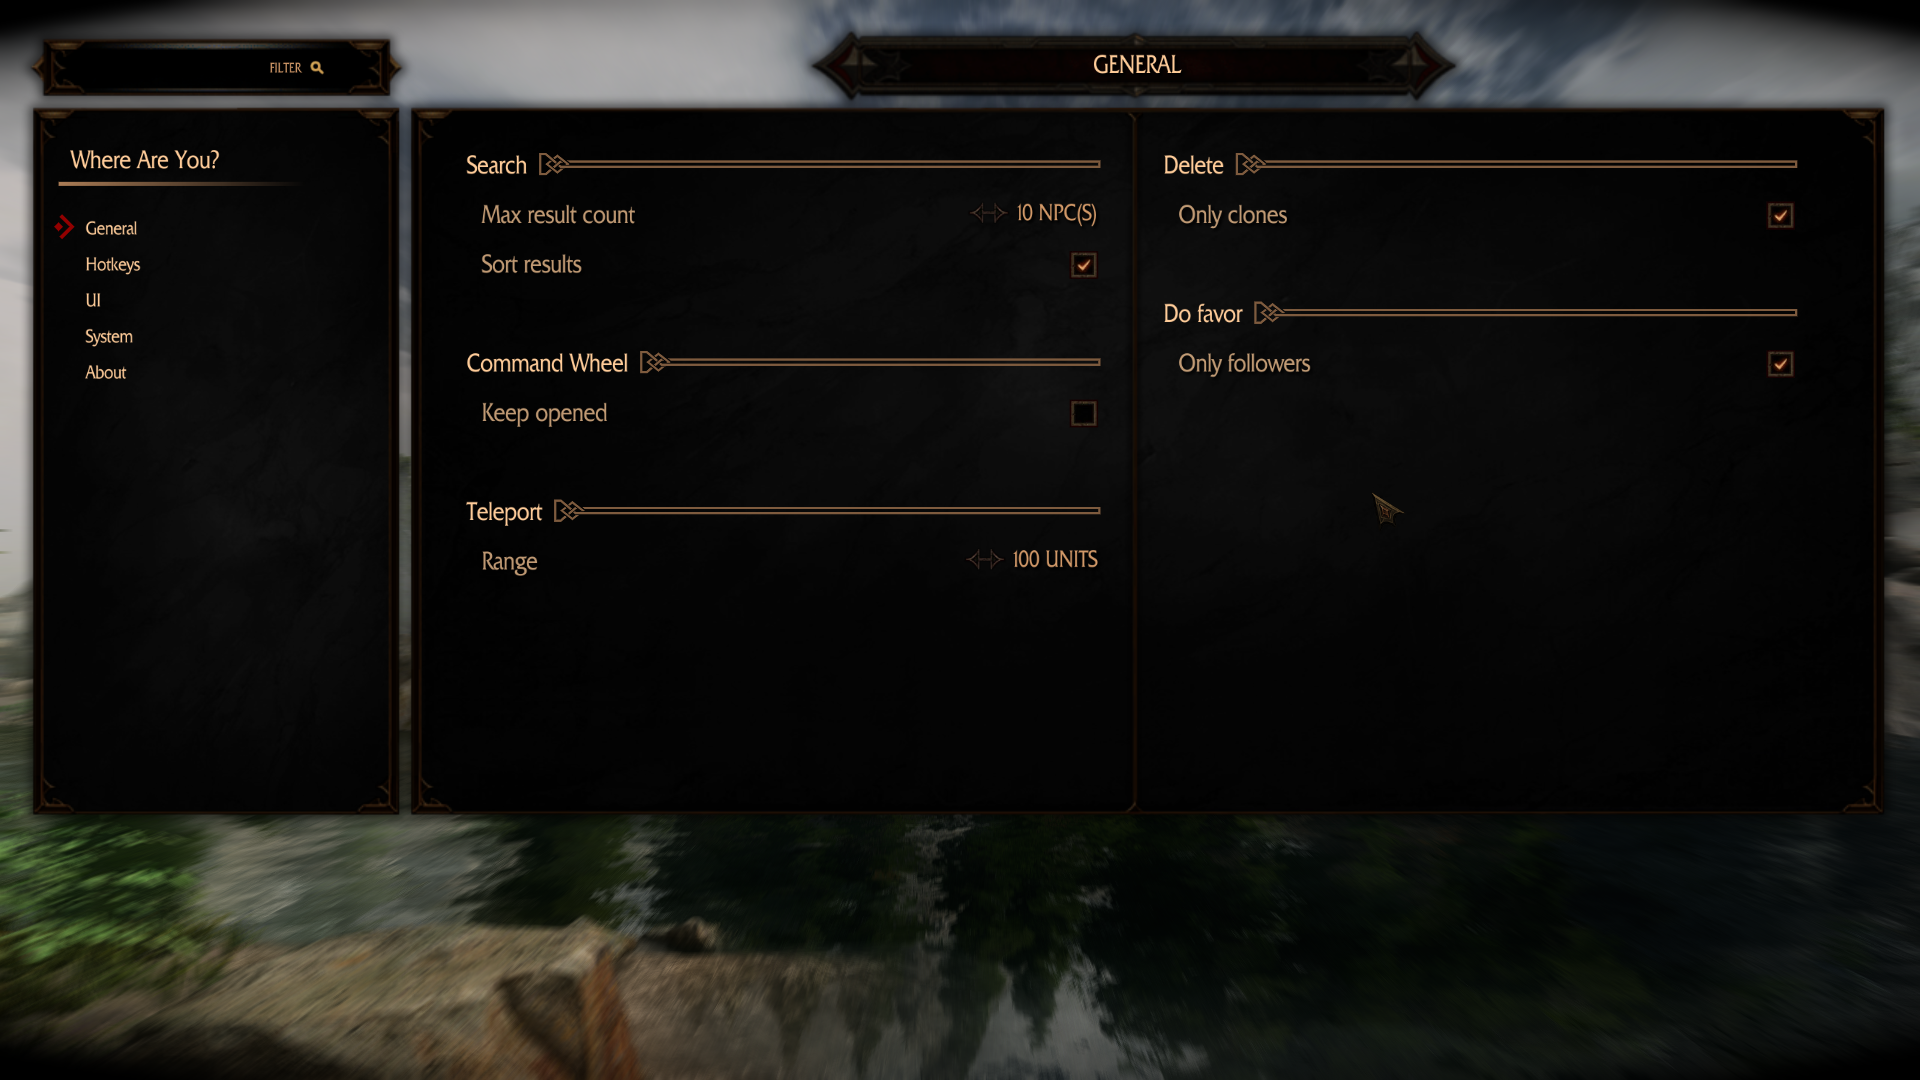
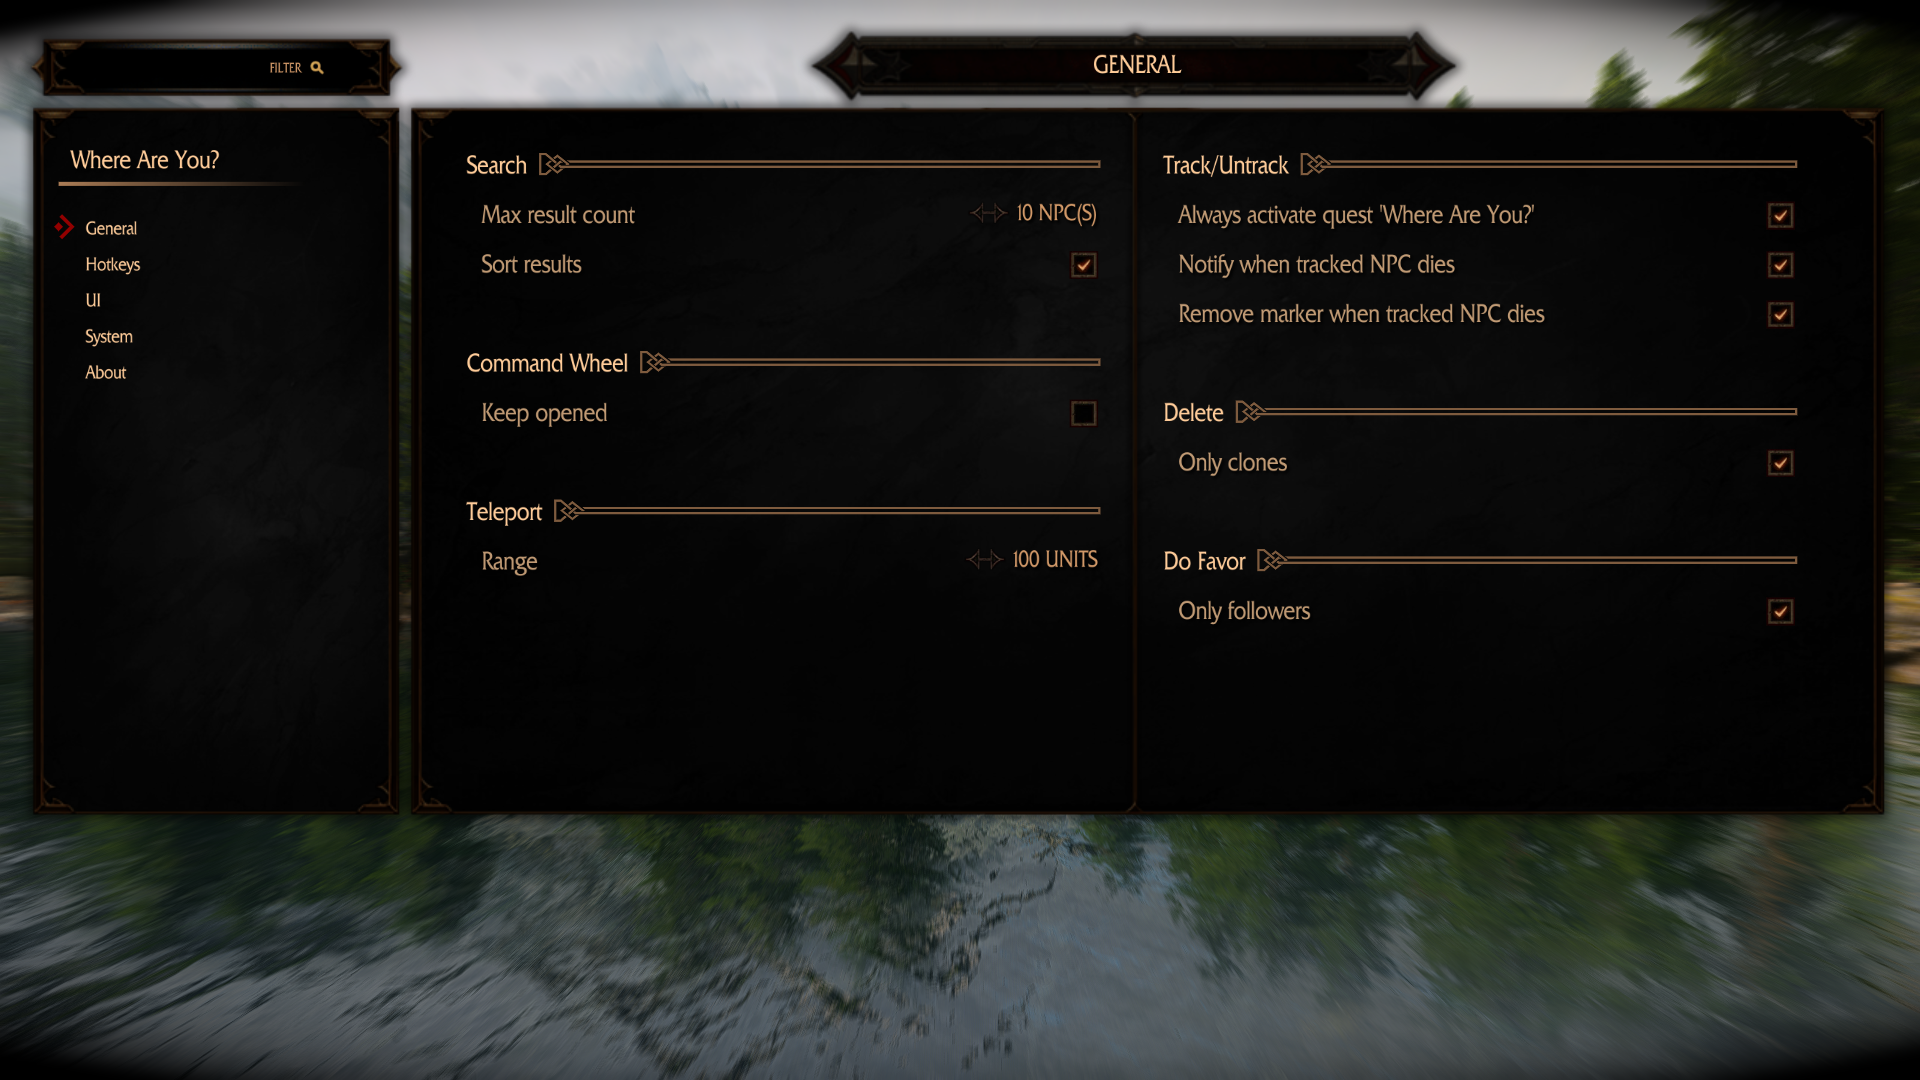
docs: update screenshots, readme and changelog

diff --git a/README.md b/README.md
@@ -13,16 +13,19 @@ Don't worry, we'll find them for you!
 ## Features
 
 - Implemented:
+  - **[NEW]** Fast search using [Lua pattern matching](https://www.lua.org/manual/5.1/manual.html#5.4.1)
+  - **[NEW]** Customized search result list format
+  - **[NEW]** More NPC info available in the older Stats command wheel option
   - Search all unique NPCs you discovered by their names
-  - **[NEW]** MCM
-  - **[NEW]** Customizable hotkey for search NPCs
-  - **[NEW]** Customizable hotkey for tracking NPC at crosshair
-  - **[NEW]** Customizable hotkey for show command wheel for NPC at crosshair
-  - **[NEW]** Customizable hotkey for make NPC at crosshair do a favor
-  - **[NEW]** Support for modifiers (Ctrl, Shift and Alt) in all hotkeys
-  - **[NEW]** Added option to only delete cloned NPCs
-  - **[NEW]** Added option to only allow followers to do favors
-  - **[NEW]** Customizable UI (icons and color)
+  - MCM
+  - Customizable hotkey for search NPCs
+  - Customizable hotkey for tracking NPC at crosshair
+  - Customizable hotkey for show command wheel for NPC at crosshair
+  - Customizable hotkey for make NPC at crosshair do a favor
+  - Support for modifiers (Ctrl, Shift and Alt) in all hotkeys
+  - Added option to only delete cloned NPCs
+  - Added option to only allow followers to do favors
+  - Customizable UI (icons and color)
   - Search supporting wildcards * and ?
   - Tracking markers up to 100 NPCs
   - Teleport the NPC to you
@@ -39,8 +42,6 @@ Don't worry, we'll find them for you!
   - A SKSE version to improve search performance or a [Skyrim Search SE](https://www.nexusmods.com/skyrimspecialedition/mods/45689) integration.
   - Find NPCs still not discovered/spawned in game.
   - Add support to track pets
-  - Show more NPC info (like FormID, EditorID, what mod is from, etc.).
-  - Translations (official support for English and pt-BR)
   - Profiles
   - Extend the search functionality with some patterns, similar to the SPID format.
   - Add dialog option in quests to help find the target NPC (where it lives, works, sleeps, etc). Optionally also add a quest marker to help track it. Thanks [dann1](https://www.nexusmods.com/Users/25568544) for the suggestion!
@@ -85,14 +86,13 @@ No incompatibilities found yet.
 
 - Can I uninstall it mid playthrough?
 - It's not recomended, but you can. If you wish to proceed what I would do:
-  - 1) Reset stored data (MCM > Where Are You? > System > Reset data).
-  - 2) Disable the mod (MCM > Where Are You? > System > Mod enabled)
-  - 3) Disable "Keep tracking in the background" too (to avoid store data in background)
-  - 4) Make a new save
-  - 5) Disable the kxWhereAreYou.esp
-  - 6) Make a new save
-  - 7) Clean the new save on [Resaver](https://www.nexusmods.com/skyrimspecialedition/mods/5031)
-  - 8) Load the cleaned save
+  - 1) Disable the mod (MCM > Where Are You? > System > Mod enabled)
+  - 2) Disable "Keep tracking in the background" too (to avoid store data in background)
+  - 3) Make a new save
+  - 4) Disable the kxWhereAreYou.esp
+  - 5) Make a new save
+  - 6) Clean the new save on [Resaver](https://www.nexusmods.com/skyrimspecialedition/mods/5031)
+  - 7) Load the cleaned save
 
 ---
 
@@ -102,7 +102,7 @@ No incompatibilities found yet.
 ---
 
 - It's slow! Any plans to improve the search performance?
-- Yeah, this scripted version has its limitations. In a heavy modded and/or low-end PCs the search time can be pretty high. Try to avoid using wildcards because the searching is way slower with it. I do plan to release a SKSE version to improve the search performance.
+- Yeah, this scripted version has its limitations. I tried my best to shift the searching to Lua scripts and that helped a lot performance wise. I still plan to release a SKSE plugin to improve the search performance and also deal with some other script limitations.
 
 ---
 
@@ -112,7 +112,7 @@ No incompatibilities found yet.
 ---
 
 - I have a very specific case where my NPC is not tracked by this mod at all. Can I change any settings or do some troubleshoot on my own?
-- This mod uses SPID to distribute a lookup spell for every unique NPC actor. If this doesn't match what you need you can update the `kxWhereAreYou_DISTR.ini` file and include your own filters. You can `bEnableLogging` and `bEnableTrace` to `1` on your Skyrim.ini file and also enable "Debug mode" on MCM. The logs will appear on your Papyrus.0.log file and also on the game's console. You can also dump all data stored via the MCM (Mod's MCM > System > Export data). The output file will be generated at `Data/kxWhereAreYou/Debug/dump.json`.
+- This mod uses SPID to distribute a lookup spell for every unique NPC actor. If this doesn't match what you need you can update the `kxWhereAreYou_DISTR.ini` file and include your own filters. You can `bEnableLogging` and `bEnableTrace` to `1` on your Skyrim.ini file and also enable "Debug mode" on MCM. The logs will appear on your Papyrus.0.log file and also on the game's console. Lua logs will be stored in `Data/kxWhereAreYou/Debug/lua.log`. You can also dump all data stored via the MCM (Mod's MCM > System > Export data). The output file will be generated at `Data/kxWhereAreYou/Debug/dump.json`.
 
 ---
 
@@ -128,11 +128,6 @@ No incompatibilities found yet.
 
 - What happens if I disable the mod via "Mod enabled" toggle?
 - All the keys associated with this mod will be unregistered. The mod will still be storing NPCs on the background in case you reenable the mod again if the option "Keep tracking in the background" is enabled.
-
----
-
-- What "reset data" does?
-- It removes all data stored by this mod from memory, so when you save your game no additional data from this mod will be baked into your save file. Your configuration settings will be untouched.
 
 ---
 

diff --git a/CHANGELOG.md b/CHANGELOG.md
@@ -2,8 +2,8 @@
 
 ## 1.3.0
 
-- Faster and more powerful search using Lua. Search now uses Lua patterns instead of simple wildcards used in previous version
-- Customized result search list format. You can use predefined variables to add only the information you need like `[name]|[refid]~[mod]`
+- Faster and more powerful search using Lua. Search now uses Lua [pattern matching](https://www.lua.org/manual/5.1/manual.html#5.4.1) instead of simple wildcards like in the previous version
+- Customized search result list format. You can use predefined variables to add only the information you need like `[name]|[refid]~[mod]`
 - Added more NPC info on "Stats" option (available in command wheel), like location, race, baseid, refid, etc
 - Added option to be notified when a tracked NPC dies
 - Added option to remove tracking marker when NPC dies
